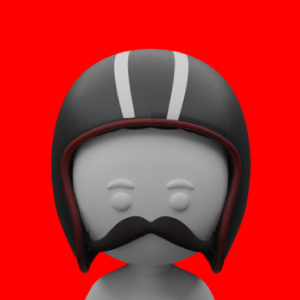
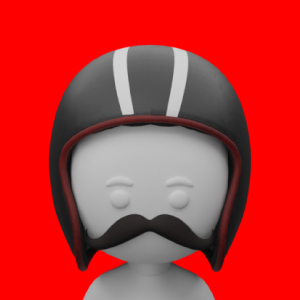
chore: env

diff --git a/public/assets/env/env.js b/public/assets/env/env.js
@@ -1,5 +1,5 @@
 window.env = {
-  API_URL: 'http://localhost:8082',
+  API_URL: 'https://api.accesspilot.dev.getinsight.tech',
   FRONTEND_URL: 'http://localhost:5173',
   KEYCLOAK_URL: 'https://keycloak.cloud.getinsight.tech',
   KEYCLOAK_REALM: 'access-pilot',
